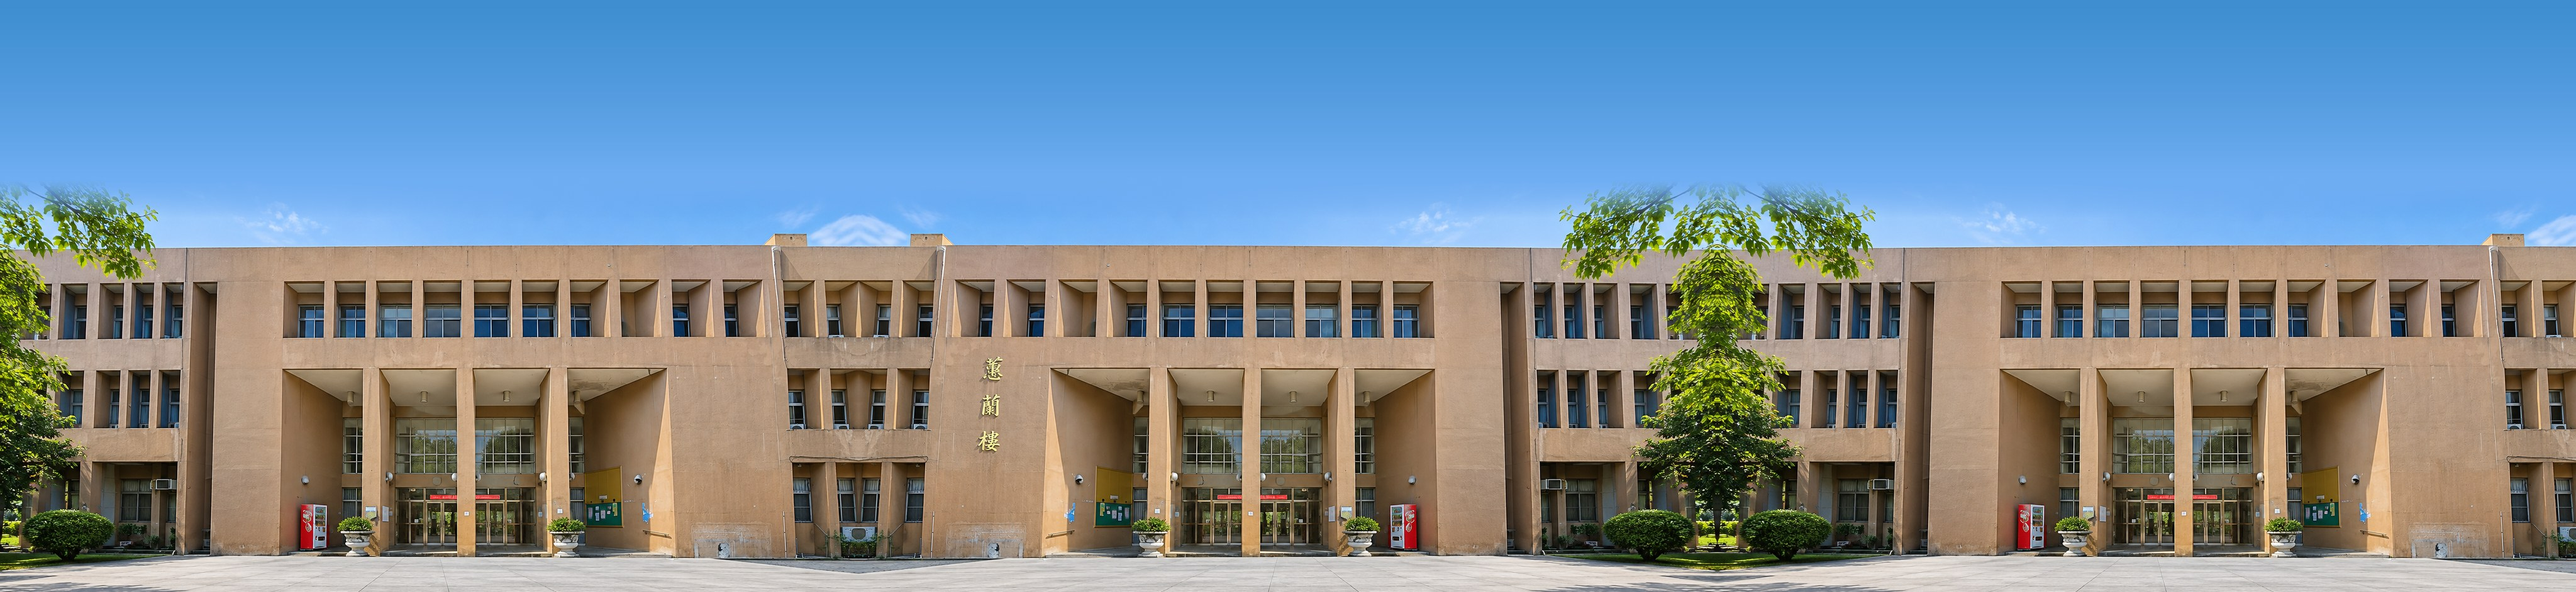
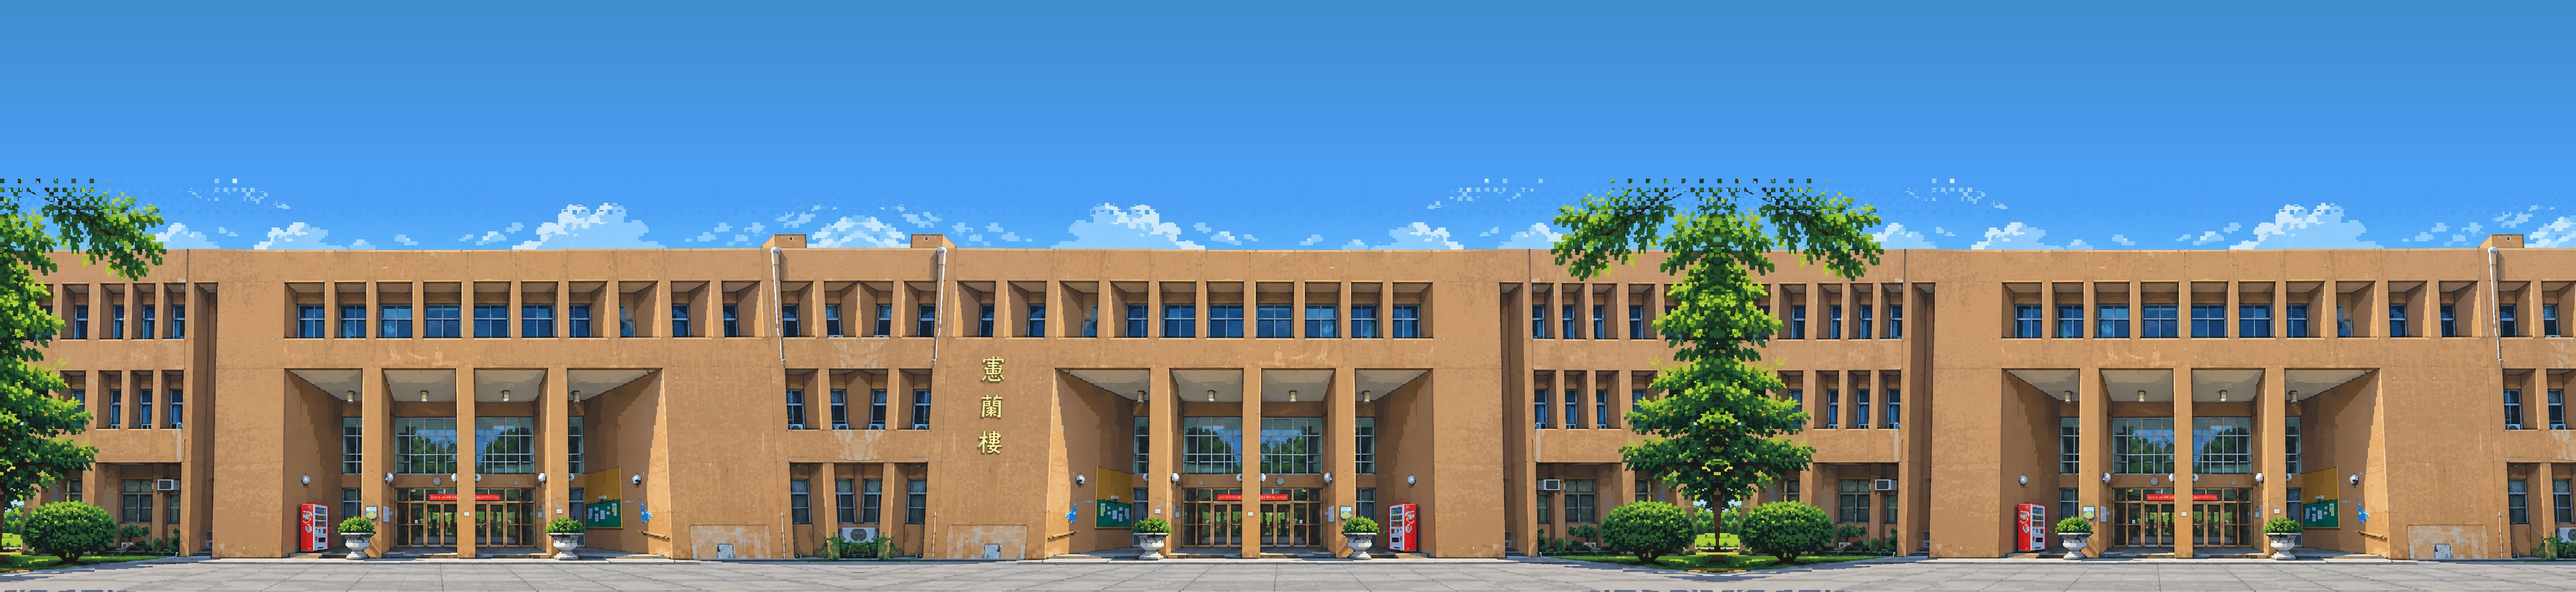
背景換成像素風蕙蘭樓，地面改成配合的像素風地磚
Claude-Session: https://claude.ai/code/session_01MTEnDWhmMAYBiLj5BMogqC

diff --git a/client/src/game/arena.ts b/client/src/game/arena.ts
@@ -17,8 +17,14 @@ export const BACKGROUND_PATH = 'assets/backgrounds/campus.jpg';
  */
 const PHOTO = { worldPerTexel: (4608 / 4096) * 1.4, scrollX: 0.35, centerX: 1190, bottomY: ARENA.groundY + 10 };
 
+export const GROUND_KEY = 'bg:groundPixel';
+/** 像素風地磚（1 texel = 世界 8px，左右可無縫重複） */
+export const GROUND_PATH = 'assets/backgrounds/ground_pixel.png';
+const GROUND_TEXEL = 8;
+
 export function queueBackground(scene: Phaser.Scene): void {
   scene.load.image(BACKGROUND_KEY, BACKGROUND_PATH);
+  scene.load.image(GROUND_KEY, GROUND_PATH);
 }
 
 /** 世界外圍多畫一圈，鏡頭拉遠或晃動時不會看到黑邊 */
@@ -141,11 +147,26 @@ export function drawArena(scene: Phaser.Scene): Phaser.GameObjects.Container {
     root.add(scene.add.image(BX0, BY0, 'arena:backdrop').setOrigin(0, 0).setScale(1 / RES).setScrollFactor(0.5, 1));
   }
 
-  // 地面（含草叢、距離木樁）
+  // 地面：像素風地磚（配合背景圖的廣場）；圖片沒載入時退回程式畫的地磚
+  const pixelGround = scene.textures.exists(GROUND_KEY);
+  if (pixelGround) {
+    scene.textures.get(GROUND_KEY).setFilter(Phaser.Textures.FilterMode.NEAREST);
+    root.add(
+      scene.add
+        .tileSprite(left, G - 4, span / GROUND_TEXEL, (BOTTOM - G + 4) / GROUND_TEXEL, GROUND_KEY)
+        .setOrigin(0, 0)
+        .setScale(GROUND_TEXEL),
+    );
+  }
+  // 地面（程式畫的地磚＋距離木樁）
   const gTop = G - 40;
   root.add(
-    baked(scene, 'arena:ground', left, gTop, span, BOTTOM - gTop, 0.5, (g, X, Y, S) => {
+    baked(scene, pixelGround ? 'arena:stakes' : 'arena:ground', left, gTop, span, BOTTOM - gTop, 0.5, (g, X, Y, S) => {
       const rr = rng(17);
+      if (pixelGround) {
+        drawStakes(g, X, Y, S);
+        return;
+      }
       // 廣場的水泥地磚（跟背景照片的廣場同色）
       g.fillStyle(0xcdc8c0).fillRect(X(left), Y(G - 4), S(span), S(BOTTOM - G + 4));
       g.fillStyle(0xbdb8b0).fillRect(X(left), Y(G + 90), S(span), S(BOTTOM - G - 90));
@@ -161,15 +182,20 @@ export function drawArena(scene: Phaser.Scene): Phaser.GameObjects.Container {
       for (let i = 0; i < 160; i++) g.fillStyle(0x8f8a82, 0.25).fillCircle(X(left + rr() * span), Y(G + 6 + rr() * 500), S(2 + rr() * 5));
       // 地面邊緣的亮線
       g.fillStyle(0xe2ded7).fillRect(X(left), Y(G - 4), S(span), S(5));
-      // 距離標記：每 200px 一根小木樁，方便判斷距離
-      for (let x = 200; x < W; x += 200) {
-        g.fillStyle(0x2b2118).fillRect(X(x - 4), Y(G - 30), S(8), S(30));
-        g.fillStyle(0xd7b98a).fillRect(X(x - 2), Y(G - 28), S(4), S(26));
-      }
+      drawStakes(g, X, Y, S);
     }),
   );
 
   return root;
+}
+
+/** 距離標記：每 200px 一根小木樁，方便判斷距離 */
+function drawStakes(g: Phaser.GameObjects.Graphics, X: (x: number) => number, Y: (y: number) => number, S: (v: number) => number): void {
+  const G = ARENA.groundY;
+  for (let x = 200; x < ARENA.world.width; x += 200) {
+    g.fillStyle(0x2b2118).fillRect(X(x - 4), Y(G - 30), S(8), S(30));
+    g.fillStyle(0xd7b98a).fillRect(X(x - 2), Y(G - 28), S(4), S(26));
+  }
 }
 
 /** 選單背景用：整個戰場縮小置中 */

diff --git a/README.md b/README.md
@@ -205,7 +205,7 @@ Socket.IO 需要一直開著的 Node 伺服器，GitHub Pages 這類純靜態空
 ## 9. 尚未完成 / 已知限制
 
 - **音效**：用開源的 ZzFX（MIT 授權）即時合成，沒有音檔；聲音參數在 `client/src/game/sfx.ts`，可以到 https://killedbyapixel.github.io/ZzFX/ 試聽調整。
-- **素材**：可選角色有李信安、鄭霖澤、葉柄承、捲毛（都用照片）；李信安、鄭霖澤沒有受傷照，受傷時用待機照加紅色閃爍。背景是蕙蘭樓照片（`client/public/assets/backgrounds/campus.jpg`：中間原圖、左右鏡像延伸並蓋掉鏡像的字、上方補天空），地面是配合照片的水泥地磚；擺放比例在 `client/src/game/arena.ts` 的 `PHOTO`。
+- **素材**：可選角色有李信安、鄭霖澤、葉柄承、捲毛（都用照片）；李信安、鄭霖澤沒有受傷照，受傷時用待機照加紅色閃爍。背景是像素風的蕙蘭樓（`client/public/assets/backgrounds/campus.jpg`：中間原圖、左右鏡像延伸並蓋掉鏡像的字、上方補像素色帶天空），地面是配合它生成的像素風地磚（`ground_pixel.png`，1 格 = 8px，左右無縫重複）；擺放比例在 `client/src/game/arena.ts` 的 `PHOTO`。
 - **重新比賽**：結束後只能回主選單重開房間，沒有「再來一局」。
 - **防作弊**：角度/力道數值由客戶端送出，懂技術的人可以直接送出精準數值（見第 7 節）。
 - **伺服器重啟**會清空所有房間（房間只存在記憶體）。
